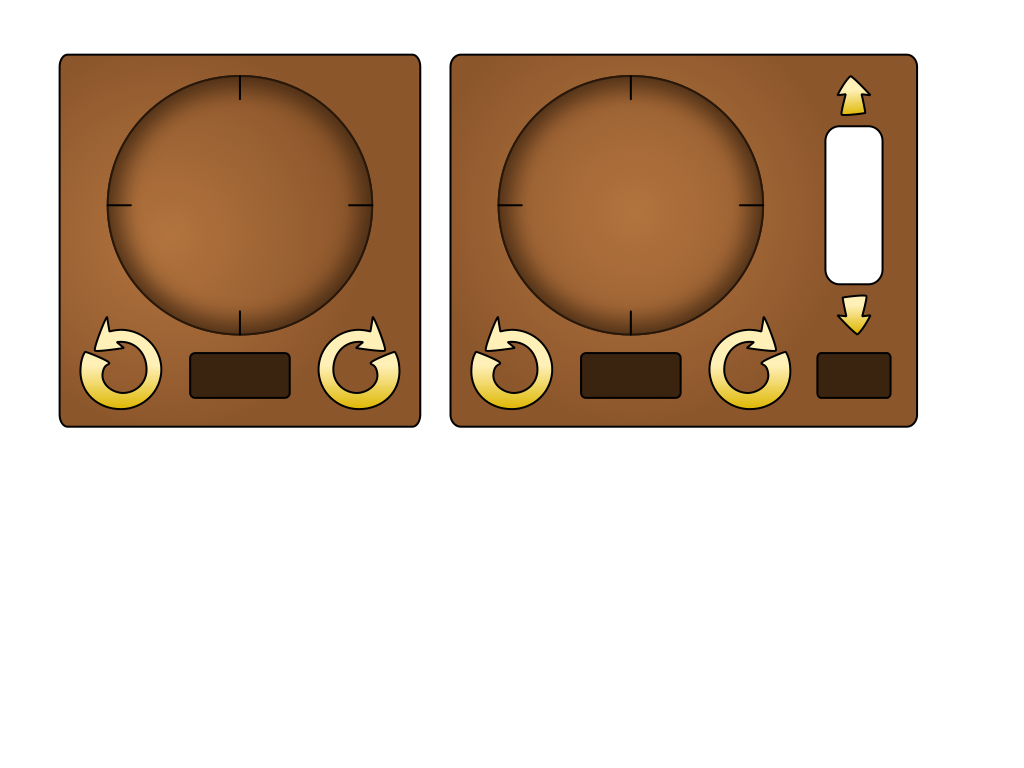
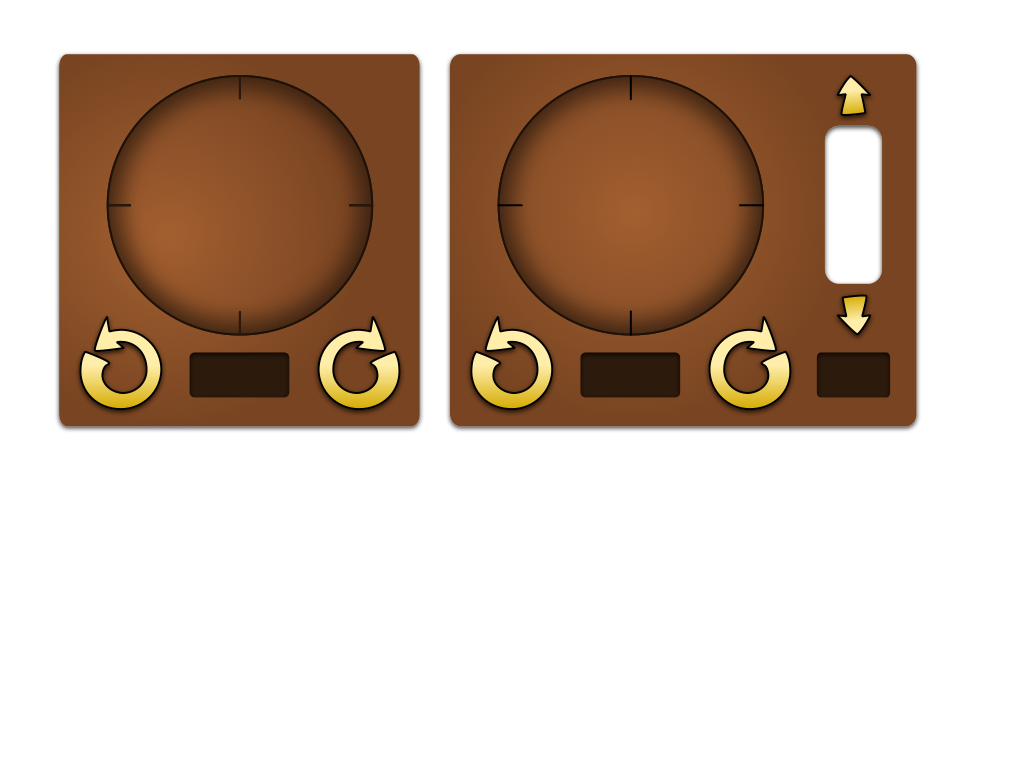
Submit payment request to the App Store

diff --git a/TD Launch/AppStore.m b/TD Launch/AppStore.m
@@ -129,25 +129,31 @@ NSString* Product_DevPack = @"com.kornerstoane.tdlaunch.DevPack";
     CCSprite* goBackButton = [CCSprite spriteWithSpriteFrameName:@"TutorialArrow.png"];
     goBackButton.scale = 0.45;
     goBackButton.rotation = -90.0;
-    goBackButton.anchorPoint = ccp(0.5, 0.5);
-    goBackButton.position = ccp(ICON_COLUMN/3, SCRNY(70));
-    
     
     CCLabelBMFont* goBackLabel = [CCLabelBMFont labelWithString:@"Go Back" fntFile:@"TDFontYellow96.fnt"];
     goBackLabel.scale = 0.45;
-    goBackLabel.anchorPoint = ccp(0.5, 1.0);
-    goBackLabel.position = ccp(goBackButton.position.x, BB_BOTTOM(goBackButton.boundingBox) - SCRNY(10));
     
     
+    CCNode* goBackContainer = [CCNode node];
+    goBackContainer.contentSize = CGSizeMake(MAX(BB_WIDTH(goBackButton), BB_WIDTH(goBackLabel)),
+                                             BB_HEIGHT(goBackButton) + BB_HEIGHT(goBackLabel) - SCRNY(20));
+    goBackContainer.anchorPoint = ccp(0.5, 0.5);
+    goBackContainer.position = ccp(ICON_COLUMN/3, SCRNY(55));
     
-    goBackButton.isTouchEnabled = YES;
-    goBackLabel.isTouchEnabled = YES;
+    goBackButton.anchorPoint = ccp(0, 1);
+    goBackButton.position = ccp((goBackContainer.contentSize.width - BB_WIDTH(goBackButton))/2,
+                                goBackContainer.contentSize.height);
+    [goBackContainer addChild:goBackButton];
+    
+    goBackLabel.anchorPoint = ccp(0, 0);
+    goBackLabel.position = ccp((goBackContainer.contentSize.width - BB_WIDTH(goBackLabel))/2, 0);
+    [goBackContainer addChild:goBackLabel];
+    
+    [self addChild:goBackContainer z:3];
+    
+    goBackContainer.isTouchEnabled = YES;
 
-    [goBackButton addGestureRecognizer:[GestureRecognizerWithBlock recognizer:[[UITapGestureRecognizer alloc] init] block:^(UIGestureRecognizer* r, CCNode* item) {
-        [[CCDirector sharedDirector] replaceScene:[LevelMenu scene]];
-    }]];
-    
-    [goBackLabel addGestureRecognizer:[GestureRecognizerWithBlock recognizer:[[UITapGestureRecognizer alloc] init] block:^(UIGestureRecognizer* r, CCNode* item) {
+    [goBackContainer addGestureRecognizer:[GestureRecognizerWithBlock recognizer:[[UITapGestureRecognizer alloc] init] block:^(UIGestureRecognizer* r, CCNode* item) {
         [[CCDirector sharedDirector] replaceScene:[LevelMenu scene]];
     }]];
 
@@ -158,8 +164,7 @@ NSString* Product_DevPack = @"com.kornerstoane.tdlaunch.DevPack";
     [request start];
     
     
-    [self addChild:goBackButton]; // Make sure these are on top
-    [self addChild:goBackLabel];
+    
 }
 
 
@@ -221,6 +226,7 @@ NSString* Product_DevPack = @"com.kornerstoane.tdlaunch.DevPack";
         model.icon = toolSprite;
         model.title = product.localizedTitle;
         model.description = product.localizedDescription;
+        model.product = product;
         
         NSNumberFormatter *numberFormatter = [[NSNumberFormatter alloc] init];
         [numberFormatter setFormatterBehavior:NSNumberFormatterBehavior10_4];
@@ -259,7 +265,7 @@ NSString* Product_DevPack = @"com.kornerstoane.tdlaunch.DevPack";
         [titleBox addChild:description];
         
         title.anchorPoint = ccp(0,0);
-        title.position = ccp(0, BB_TOP(description.boundingBox));
+        title.position = ccp(0, BB_TOP(description));
         [titleBox addChild:title];
         
         titleBox.anchorPoint = ccp(0, 0.5);
@@ -272,6 +278,13 @@ NSString* Product_DevPack = @"com.kornerstoane.tdlaunch.DevPack";
         price.anchorPoint = ccp(0.5, 0.5);
         price.position = ccp(PRICE_COLUMN, y);
         [tableView addChild:price];
+        price.isTouchEnabled = YES;
+        [price addGestureRecognizer:[GestureRecognizerWithBlock recognizer:[[UITapGestureRecognizer alloc] init] block:^(UIGestureRecognizer* r, CCNode* item) {
+            AUDIOTIC1;
+            SKMutablePayment* payment = [SKMutablePayment paymentWithProduct:product.product];
+            payment.quantity = 1;
+            [[SKPaymentQueue defaultQueue] addPayment:payment];
+        }]];
         
         y -= tableSpacing;
     }
@@ -280,7 +293,7 @@ NSString* Product_DevPack = @"com.kornerstoane.tdlaunch.DevPack";
     scrollView.contentSize = CGSizeMake(screen.width, screen.height);
     scrollView.anchorPoint = ccp(0.5, 0);
     scrollView.position = ccp(screen.width/2, 0);
-    [self addChild:scrollView];
+    [self addChild:scrollView z:2];
     
     scrollView.clipContents = YES;
     scrollView.content.position = ccp(scrollView.content.position.x, scrollView.contentSize.height - scrollView.content.contentSize.height);

diff --git a/TD Launch/GameLayer.m b/TD Launch/GameLayer.m
@@ -724,7 +724,7 @@ if (accelHalfXTimer > 0) a *= 0.5
     }]];
     
     
-    float width = BB_RIGHT(storeSprite.boundingBox) + SCRNX(30);
+    float width = BB_RIGHT(storeSprite) + SCRNX(30);
     objHolder.contentSize = CGSizeMake(width, objectDrawer.contentSize.height-SCRNY(40));
     
     
@@ -1008,8 +1008,8 @@ if (accelHalfXTimer > 0) a *= 0.5
                                                  self.contentSize.height*0.65)
                                           anchorPoint:ccp(.5,.5)
                                           scaledTo:nil
-                                          arrowTo:ccp(BB_HORZ_PCT(characterDrawer.boundingBox, 0.40),
-                                                      BB_VERT_PCT(characterDrawer.boundingBox, 1.0)+SCRNY(5))];
+                                          arrowTo:ccp(BB_HORZ_PCT(characterDrawer, 0.40),
+                                                      BB_VERT_PCT(characterDrawer, 1.0)+SCRNY(5))];
                    [self addChild:tut z:9999999];
                    [Settings globalSettings].showDrawerTutorial = NO;
                    [[Settings globalSettings] save];
@@ -1041,8 +1041,8 @@ if (accelHalfXTimer > 0) a *= 0.5
                                                  self.contentSize.height*0.65)
                                           anchorPoint:ccp(.5,.5)
                                           scaledTo:nil
-                                          arrowTo:ccp(BB_HORZ_PCT(objectDrawer.boundingBox, 0.40),
-                                                      BB_VERT_PCT(objectDrawer.boundingBox, 1.0)+SCRNY(5))];
+                                          arrowTo:ccp(BB_HORZ_PCT(objectDrawer, 0.40),
+                                                      BB_VERT_PCT(objectDrawer, 1.0)+SCRNY(5))];
                    [self addChild:tut z:9999999];
                    [Settings globalSettings].showDrawerTutorial = NO;
                    [[Settings globalSettings] save];
@@ -1366,14 +1366,14 @@ if (accelHalfXTimer > 0) a *= 0.5
         nextLevelButton.alignment = kCCTextAlignmentCenter;
         nextLevelButton.scale = 0.45;
         nextLevelButton.anchorPoint = ccp(1,0.5);
-        nextLevelButton.position = ccp(BB_RIGHT(recapScreen.boundingBox) - SCRNX(60), BB_TOP(recapScreen.boundingBox));
+        nextLevelButton.position = ccp(BB_RIGHT(recapScreen) - SCRNX(60), BB_TOP(recapScreen));
         
         nextLevelButton.opacity = 0;
         nextLevelButton.isTouchEnabled = YES;
         
         [nextLevelButton runAction:[CCMoveTo actionWithDuration:0.5
-                                                 position:ccp(BB_RIGHT(recapScreen.boundingBox) - SCRNX(60),
-                                                              recapScreen.boundingBox.origin.y + BB_TOP(title.boundingBox) - title.boundingBox.size.height*0.6)]];
+                                                 position:ccp(BB_RIGHT(recapScreen) - SCRNX(60),
+                                                              recapScreen.boundingBox.origin.y + BB_TOP(title) - title.boundingBox.size.height*0.6)]];
         [nextLevelButton runAction:[CCFadeIn actionWithDuration:0.75]];
         
         [nextLevelButton addGestureRecognizer:[GestureRecognizerWithBlock recognizer:[[UITapGestureRecognizer alloc] init] block:^(UIGestureRecognizer* recognizer, CCNode* item)

diff --git a/TD Launch/AppDelegate.m b/TD Launch/AppDelegate.m
@@ -122,6 +122,8 @@ unsigned int getCurrentTime()
 	
     [[SimpleAudioEngine sharedEngine] preloadEffect:@"Tic.mp3"];
     
+    [[SKPaymentQueue defaultQueue] addTransactionObserver:self];
+    
 	// make main window visible
 	[window_ makeKeyAndVisible];
     
@@ -276,6 +278,32 @@ unsigned int getCurrentTime()
 }
 
 
+// SKPaymentTransactionObserver methods
 
+- (void)paymentQueue:(SKPaymentQueue *)queue updatedTransactions:(NSArray *)transactions
+{
+    NSLog(@"updated transactions called");
+}
+
+- (void)paymentQueue:(SKPaymentQueue *)queue removedTransactions:(NSArray *)transactions
+{
+    NSLog(@"removed transactions called");
+    
+}
+
+- (void)paymentQueue:(SKPaymentQueue *)queue restoreCompletedTransactionsFailedWithError:(NSError *)error
+{
+    NSLog(@"restoreCompletedTransactionsFailedWithError: %@", error);
+}
+
+- (void)paymentQueue:(SKPaymentQueue *)queue updatedDownloads:(NSArray *)downloads
+{
+    NSLog(@"updated downloads called");
+}
+
+- (void)paymentQueueRestoreCompletedTransactionsFinished:(SKPaymentQueue *)queue
+{
+    NSLog(@"restore completed transactions finished");
+}
 
 @end

diff --git a/TD Launch/Screen.h b/TD Launch/Screen.h
@@ -38,9 +38,11 @@ extern BOOL isRetinaScreen;
 
 
 // Bounding Box Helper, because I really hate how much typing it takes!
-#define BB_LEFT(bb)     (bb.origin.x)
-#define BB_RIGHT(bb)    (bb.origin.x + bb.size.width)
-#define BB_BOTTOM(bb)   (bb.origin.y)
-#define BB_TOP(bb)      (bb.origin.y + bb.size.height)
-#define BB_HORZ_PCT(bb,pct) (bb.origin.x + (bb.size.width*pct))
-#define BB_VERT_PCT(bb,pct) (bb.origin.y + (bb.size.height*pct))
+#define BB_LEFT(obj)     (obj.boundingBox.origin.x)
+#define BB_RIGHT(obj)    (obj.boundingBox.origin.x + obj.boundingBox.size.width)
+#define BB_BOTTOM(obj)   (obj.boundingBox.origin.y)
+#define BB_TOP(obj)      (obj.boundingBox.origin.y + obj.boundingBox.size.height)
+#define BB_HEIGHT(obj)   (obj.boundingBox.size.height)
+#define BB_WIDTH(obj)    (obj.boundingBox.size.width)
+#define BB_HORZ_PCT(obj,pct) (obj.boundingBox.origin.x + (obj.boundingBox.size.width*pct))
+#define BB_VERT_PCT(obj,pct) (obj.boundingBox.origin.y + (obj.boundingBox.size.height*pct))

diff --git a/TD Launch/AppDelegate.h b/TD Launch/AppDelegate.h
@@ -8,13 +8,14 @@
 
 #import <UIKit/UIKit.h>
 #import <iAd/iAd.h>
+#import <StoreKit/StoreKit.h>
 #import "cocos2d.h"
 
 
 #define APPCONTROLLER ((AppController*)[[UIApplication sharedApplication] delegate])
 
 
-@interface AppController : NSObject <UIApplicationDelegate, CCDirectorDelegate, ADBannerViewDelegate >
+@interface AppController : NSObject <UIApplicationDelegate, CCDirectorDelegate, ADBannerViewDelegate, SKPaymentTransactionObserver >
 {
 	UIWindow *window_;
 	UINavigationController *navController_;

diff --git a/TD Launch/AppStore.h b/TD Launch/AppStore.h
@@ -29,4 +29,5 @@
 @property NSString* title;
 @property NSString* description;
 @property NSString* price;
+@property SKProduct* product;
 @end
